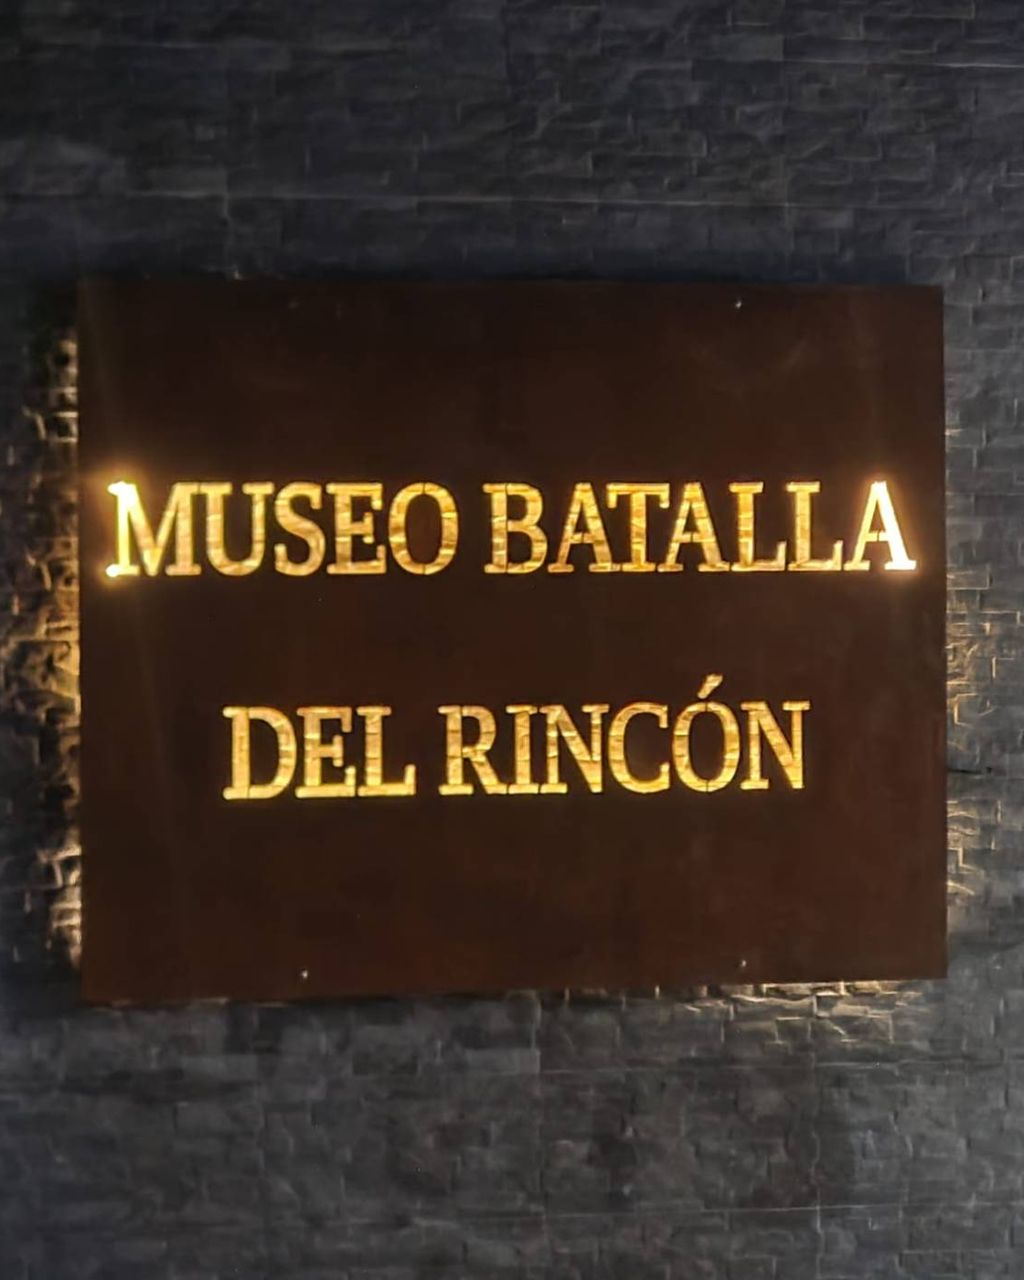
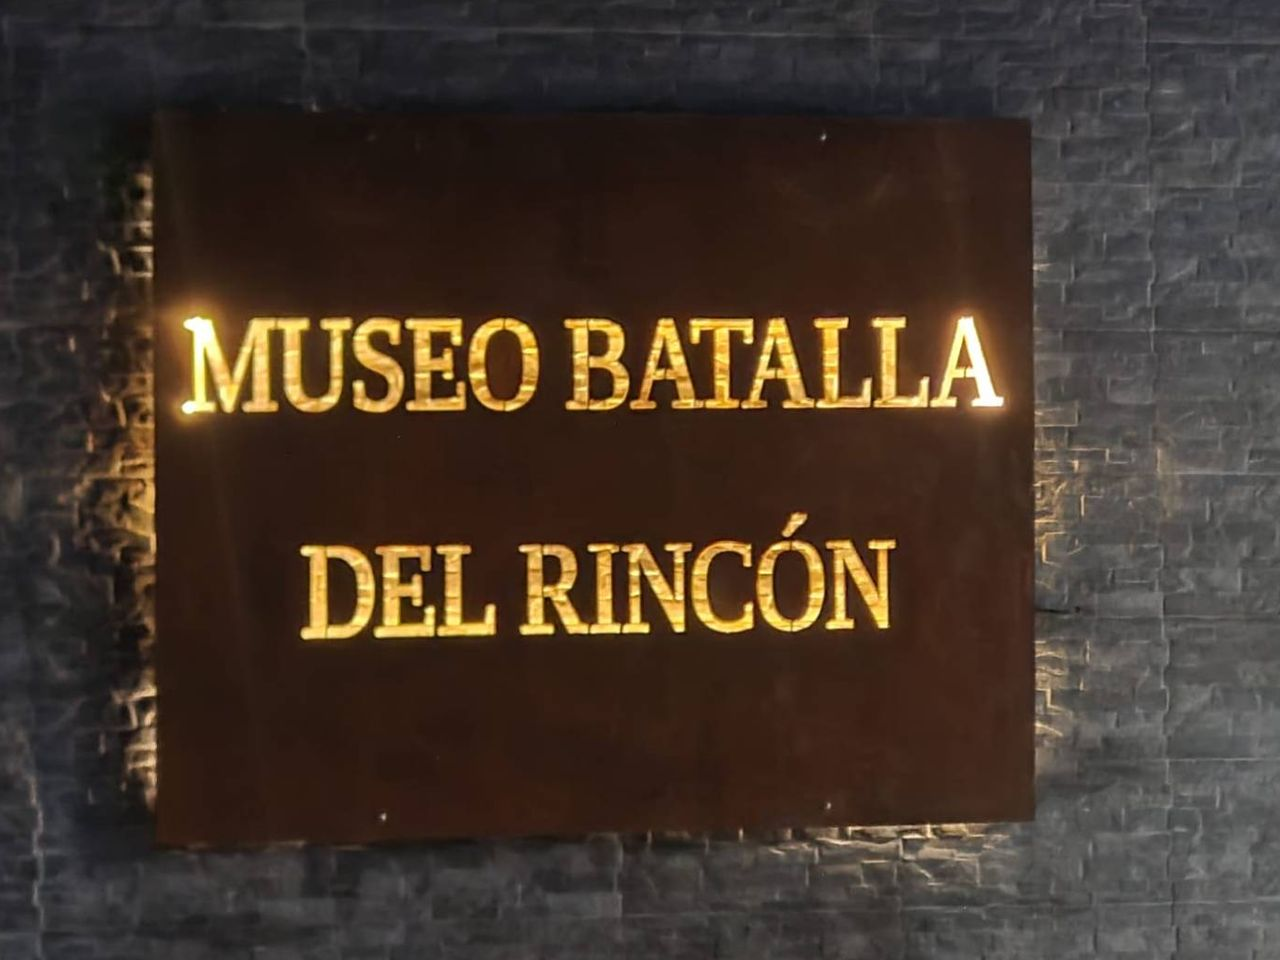
Cafetería museo: fotos arriba y texto abajo

diff --git a/assets/css/styles.css b/assets/css/styles.css
@@ -323,16 +323,18 @@ p { margin: 0 0 1.1em; }
 
 /* ---------- Cafetería museo ---------- */
 .museum { background: var(--crema-2); }
-.museum__grid { display: grid; grid-template-columns: 1.1fr 0.9fr; gap: clamp(40px, 7vw, 110px); align-items: center; }
-.museum__media { display: grid; grid-template-columns: 1.15fr 0.85fr; gap: 16px; align-items: end; }
+.museum__media { display: grid; grid-template-columns: 1fr 1fr; gap: 16px; }
 .museum__img {
-  position: relative; display: block; aspect-ratio: 3 / 4;
+  position: relative; display: block; aspect-ratio: 4 / 3;
   border-radius: var(--radius); overflow: hidden; box-shadow: var(--shadow); background: var(--verde-900);
 }
-.museum__img img { width: 100%; height: 100%; object-fit: cover; transition: transform 1.2s var(--ease); }
+.museum__img img { width: 100%; height: 100%; object-fit: cover; object-position: 50% 55%; transition: transform 1.2s var(--ease); }
 .museum__img:hover img { transform: scale(1.04); }
-.museum__img--sign { aspect-ratio: 4 / 5; margin-bottom: clamp(36px, 6vw, 80px); }
+.museum__text { max-width: 620px; margin: clamp(40px, 5vw, 64px) auto 0; text-align: center; }
+.museum__text p:not(.eyebrow) { color: var(--texto); font-size: 1.1rem; }
+.museum__text .chips { justify-content: center; }
 .museum .eyebrow { color: var(--corten); }
+.museum .eyebrow::after { content: ""; width: 34px; height: 1px; background: currentColor; opacity: 0.6; }
 .museum .h2 em { color: var(--corten); }
 .museum .chips .icon { color: var(--corten); }
 
@@ -720,12 +722,10 @@ dialog { padding: 0; border: 0; }
   .nav__phone { display: inline-flex; align-items: center; gap: 12px; color: rgba(255, 255, 255, 0.8); }
 
   .intro__grid,
-  .museum__grid,
   .food__grid,
   .location__grid,
   .events__top { grid-template-columns: 1fr; }
-  .intro__media,
-  .museum__media { max-width: 560px; }
+  .intro__media { max-width: 560px; }
   .features { grid-template-columns: repeat(4, minmax(0, 1fr)); }
   .section-head--split { grid-template-columns: 1fr; gap: 0; }
   .section-head--split .h2 { margin-bottom: 24px; }
@@ -756,7 +756,8 @@ dialog { padding: 0; border: 0; }
 
   .feature { padding: 14px 4px; gap: 6px; font-size: 0.76rem; }
   .feature .icon { width: 20px; height: 20px; }
-  .museum__media { gap: 12px; }
+  .museum__media { grid-template-columns: 1fr; gap: 12px; }
+  .museum__text p:not(.eyebrow) { font-size: 1rem; }
 
   .carousel__slide { flex-basis: 84%; }
   .carousel__btn { display: none; }

diff --git a/index.html b/index.html
@@ -270,20 +270,19 @@
 
 <!-- ============ CAFETERÍA MUSEO ============ -->
 <section class="section museum" id="museo">
-  <div class="container museum__grid">
+  <div class="container">
     <div class="museum__media">
       <a class="museum__img reveal" href="assets/img/museo-fachada.jpg" data-gallery="museo" data-caption="Cafetería museo, al lado de la recepción">
-        <img src="assets/img/sm/museo-fachada.jpg" srcset="assets/img/sm/museo-fachada.jpg 640w, assets/img/museo-fachada.jpg 1024w" sizes="(max-width: 980px) 55vw, 30vw" alt="Edificio de piedra gris con los carteles del museo, la recepción y AMTER, entre palmeras al atardecer" loading="lazy">
+        <img src="assets/img/sm/museo-fachada.jpg" srcset="assets/img/sm/museo-fachada.jpg 640w, assets/img/museo-fachada.jpg 1024w" sizes="(max-width: 640px) 100vw, 50vw" alt="Edificio de piedra gris con los carteles del museo, la recepción y AMTER, entre palmeras al atardecer" loading="lazy">
       </a>
-      <a class="museum__img museum__img--sign reveal" href="assets/img/museo-cartel.jpg" data-gallery="museo" data-caption="Museo Batalla del Rincón">
-        <img src="assets/img/sm/museo-cartel.jpg" alt="Cartel de chapa con letras iluminadas: Museo Batalla del Rincón" loading="lazy">
+      <a class="museum__img reveal" href="assets/img/museo-cartel.jpg" data-gallery="museo" data-caption="Museo Batalla del Rincón">
+        <img src="assets/img/sm/museo-cartel.jpg" srcset="assets/img/sm/museo-cartel.jpg 800w, assets/img/museo-cartel.jpg 1280w" sizes="(max-width: 640px) 100vw, 50vw" alt="Cartel de chapa con letras iluminadas: Museo Batalla del Rincón" loading="lazy">
       </a>
     </div>
     <div class="museum__text">
       <p class="eyebrow reveal">Cafetería museo</p>
       <h2 class="h2 reveal">Museo <em>Batalla del Rincón</em></h2>
-      <p class="lead reveal">Café y un poco de historia, al lado de la recepción.</p>
-      <p class="reveal">Pase a tomar algo y a recorrer el museo, dedicado a la batalla de 1825.</p>
+      <p class="reveal">Café y un poco de historia, al lado de la recepción. Pase a tomar algo y a recorrer el museo, dedicado a la batalla de 1825.</p>
       <div class="chips reveal">
         <span><svg class="icon"><use href="#i-coffee"/></svg>Cafetería</span>
         <span><svg class="icon"><use href="#i-landmark"/></svg>Museo</span>
